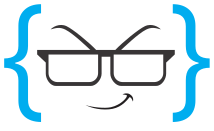
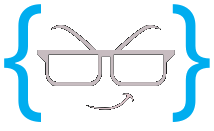
style: apply Prettier formatting

Changed region(s): [[0.1682, 0.1832, 0.8131, 0.6718], [0.3925, 0.7023, 0.6449, 0.855], [0.2243, 0.2137, 0.2523, 0.2443]]

diff --git a/frontend/src/components/ui/TaskListPanel.jsx b/frontend/src/components/ui/TaskListPanel.jsx
@@ -99,140 +99,120 @@ export default function TaskListPanel({
       </div>
 
       <div className="flex flex-col min-h-0 flex-1 mt-2 overflow-hidden">
-          {isMediator && (
-            <div className="flex gap-1.5 shrink-0">
-              <input
-                type="text"
-                value={newTaskName}
-                onChange={(e) => setNewTaskName(e.target.value)}
-                onKeyDown={(e) => e.key === 'Enter' && handleAdd()}
-                placeholder="Add task..."
-                className="flex-1 px-2 py-1 rounded-lg bg-white/5 border border-white/10
+        {isMediator && (
+          <div className="flex gap-1.5 shrink-0">
+            <input
+              type="text"
+              value={newTaskName}
+              onChange={(e) => setNewTaskName(e.target.value)}
+              onKeyDown={(e) => e.key === 'Enter' && handleAdd()}
+              placeholder="Add task..."
+              className="flex-1 px-2 py-1 rounded-lg bg-white/5 border border-white/10
                            text-white placeholder-slate-500 text-xs
                            focus:outline-none focus:ring-1 focus:ring-poker-500"
+            />
+            {groups.length > 0 && (
+              <Select
+                value={newTaskGroup}
+                placeholder="All groups"
+                compact
+                options={[
+                  { value: '', label: 'All groups' },
+                  ...groups.map((g) => ({ value: g.id, label: g.name })),
+                ]}
+                onChange={setNewTaskGroup}
+                className="w-28"
               />
-              {groups.length > 0 && (
-                <Select
-                  value={newTaskGroup}
-                  placeholder="All groups"
-                  compact
-                  options={[
-                    { value: '', label: 'All groups' },
-                    ...groups.map((g) => ({ value: g.id, label: g.name })),
-                  ]}
-                  onChange={setNewTaskGroup}
-                  className="w-28"
-                />
-              )}
-              <button onClick={handleAdd} className="glass-button text-xs px-2 py-1 rounded-md">
-                Add
-              </button>
-            </div>
-          )}
+            )}
+            <button onClick={handleAdd} className="glass-button text-xs px-2 py-1 rounded-md">
+              Add
+            </button>
+          </div>
+        )}
 
-          {sortedTasks.length > 0 && (
-            <div className="space-y-0.5 overflow-y-auto flex-1 min-h-0 mt-2 scrollbar-custom">
-              {sortedTasks.map((task, index) => {
-                const isCurrent = task.name === currentTaskName;
-                const isEditing = editingId === task.id;
-                const taskGroup = groups.find((g) => g.id === task.group_id);
-                const isInitial = task.sort_order === 0;
+        {sortedTasks.length > 0 && (
+          <div className="space-y-0.5 overflow-y-auto flex-1 min-h-0 mt-2 scrollbar-custom">
+            {sortedTasks.map((task, index) => {
+              const isCurrent = task.name === currentTaskName;
+              const isEditing = editingId === task.id;
+              const taskGroup = groups.find((g) => g.id === task.group_id);
+              const isInitial = task.sort_order === 0;
 
-                return (
-                  <div
-                    key={task.id}
-                    draggable={isMediator}
-                    onDragStart={() => handleDragStart(index)}
-                    onDragOver={(e) => {
-                      e.preventDefault();
-                      handleDragOver(index);
-                    }}
-                    onDrop={handleDrop}
-                    className={`flex items-center gap-1.5 px-2 py-1.5 rounded-lg text-xs transition-all
+              return (
+                <div
+                  key={task.id}
+                  draggable={isMediator}
+                  onDragStart={() => handleDragStart(index)}
+                  onDragOver={(e) => {
+                    e.preventDefault();
+                    handleDragOver(index);
+                  }}
+                  onDrop={handleDrop}
+                  className={`flex items-center gap-1.5 px-2 py-1.5 rounded-lg text-xs transition-all
                       ${isCurrent ? 'bg-transparent border border-poker-500/40' : isInitial ? 'bg-white/[0.07] border border-white/10' : 'bg-white/5 border border-white/5'}
                       ${isMediator ? 'cursor-grab active:cursor-grabbing' : ''}`}
-                  >
-                    <span className="text-slate-600 text-[10px] w-3 shrink-0">{index + 1}.</span>
+                >
+                  <span className="text-slate-600 text-[10px] w-3 shrink-0">{index + 1}.</span>
 
-                    {isEditing ? (
-                      <input
-                        type="text"
-                        value={editName}
-                        onChange={(e) => setEditName(e.target.value)}
-                        onBlur={() => handleSaveEdit(task.id)}
-                        onKeyDown={(e) => e.key === 'Enter' && handleSaveEdit(task.id)}
-                        className="flex-1 px-1.5 py-0.5 rounded bg-white/10 text-white text-xs
+                  {isEditing ? (
+                    <input
+                      type="text"
+                      value={editName}
+                      onChange={(e) => setEditName(e.target.value)}
+                      onBlur={() => handleSaveEdit(task.id)}
+                      onKeyDown={(e) => e.key === 'Enter' && handleSaveEdit(task.id)}
+                      className="flex-1 px-1.5 py-0.5 rounded bg-white/10 text-white text-xs
                                    focus:outline-none focus:ring-1 focus:ring-poker-500"
-                        autoFocus
-                      />
-                    ) : (
-                      <span
-                        className={`flex-1 truncate ${isCurrent ? 'text-white font-medium' : 'text-slate-300'}`}
-                        onDoubleClick={() => isMediator && handleStartEdit(task)}
-                      >
-                        {task.name}
-                      </span>
-                    )}
+                      autoFocus
+                    />
+                  ) : (
+                    <span
+                      className={`flex-1 truncate ${isCurrent ? 'text-white font-medium' : 'text-slate-300'}`}
+                      onDoubleClick={() => isMediator && handleStartEdit(task)}
+                    >
+                      {task.name}
+                    </span>
+                  )}
 
-                    {isInitial && !isCurrent && (
-                      <span className="text-[9px] px-1 py-0.5 rounded-full bg-white/10 text-slate-500 shrink-0">
-                        Inicial
-                      </span>
-                    )}
+                  {isInitial && !isCurrent && (
+                    <span className="text-[9px] px-1 py-0.5 rounded-full bg-white/10 text-slate-500 shrink-0">
+                      Inicial
+                    </span>
+                  )}
 
-                    {taskGroup && (
-                      <span className="text-[9px] px-1 py-0.5 rounded-full bg-white/10 text-slate-400 shrink-0">
-                        {taskGroup.name}
-                      </span>
-                    )}
+                  {taskGroup && (
+                    <span className="text-[9px] px-1 py-0.5 rounded-full bg-white/10 text-slate-400 shrink-0">
+                      {taskGroup.name}
+                    </span>
+                  )}
 
-                    {task.final_score && (
-                      <span className="text-[10px] font-bold text-emerald-400 shrink-0">
-                        {task.final_score}
-                      </span>
-                    )}
+                  {task.final_score && (
+                    <span className="text-[10px] font-bold text-emerald-400 shrink-0">
+                      {task.final_score}
+                    </span>
+                  )}
 
-                    {isCurrent && (
-                      <span className="text-[9px] text-poker-400 font-medium shrink-0">◉</span>
-                    )}
+                  {isCurrent && (
+                    <span className="text-[9px] text-poker-400 font-medium shrink-0">◉</span>
+                  )}
 
-                    {!isCurrent && !task.final_score && onSelectTask && (
-                      <button
-                        onClick={() => onSelectTask(task.name)}
-                        className="text-[9px] px-1.5 py-0.5 rounded bg-poker-500/20 text-poker-300 hover:bg-poker-500/30 shrink-0 transition-colors"
-                        title="Vote on this task"
-                      >
-                        Vote
-                      </button>
-                    )}
+                  {!isCurrent && !task.final_score && onSelectTask && (
+                    <button
+                      onClick={() => onSelectTask(task.name)}
+                      className="text-[9px] px-1.5 py-0.5 rounded bg-poker-500/20 text-poker-300 hover:bg-poker-500/30 shrink-0 transition-colors"
+                      title="Vote on this task"
+                    >
+                      Vote
+                    </button>
+                  )}
 
-                    {isMediator && (
-                      <div className="flex gap-0.5 shrink-0">
-                        {!isEditing && (
-                          <button
-                            onClick={() => handleStartEdit(task)}
-                            className="p-0.5 rounded hover:bg-white/10 text-slate-500 hover:text-white transition-colors"
-                            title="Edit name"
-                          >
-                            <svg
-                              className="w-2.5 h-2.5"
-                              fill="none"
-                              viewBox="0 0 24 24"
-                              stroke="currentColor"
-                            >
-                              <path
-                                strokeLinecap="round"
-                                strokeLinejoin="round"
-                                strokeWidth={2}
-                                d="M11 5H6a2 2 0 00-2 2v11a2 2 0 002 2h11a2 2 0 002-2v-5m-1.414-9.414a2 2 0 112.828 2.828L11.828 15H9v-2.828l8.586-8.586z"
-                              />
-                            </svg>
-                          </button>
-                        )}
+                  {isMediator && (
+                    <div className="flex gap-0.5 shrink-0">
+                      {!isEditing && (
                         <button
-                          onClick={() => setDeleteConfirm(task)}
-                          className="p-0.5 rounded hover:bg-red-500/20 text-slate-500 hover:text-red-400 transition-colors"
-                          title="Delete task"
+                          onClick={() => handleStartEdit(task)}
+                          className="p-0.5 rounded hover:bg-white/10 text-slate-500 hover:text-white transition-colors"
+                          title="Edit name"
                         >
                           <svg
                             className="w-2.5 h-2.5"
@@ -244,24 +224,44 @@ export default function TaskListPanel({
                               strokeLinecap="round"
                               strokeLinejoin="round"
                               strokeWidth={2}
-                              d="M6 18L18 6M6 6l12 12"
+                              d="M11 5H6a2 2 0 00-2 2v11a2 2 0 002 2h11a2 2 0 002-2v-5m-1.414-9.414a2 2 0 112.828 2.828L11.828 15H9v-2.828l8.586-8.586z"
                             />
                           </svg>
                         </button>
-                      </div>
-                    )}
-                  </div>
-                );
-              })}
-            </div>
-          )}
+                      )}
+                      <button
+                        onClick={() => setDeleteConfirm(task)}
+                        className="p-0.5 rounded hover:bg-red-500/20 text-slate-500 hover:text-red-400 transition-colors"
+                        title="Delete task"
+                      >
+                        <svg
+                          className="w-2.5 h-2.5"
+                          fill="none"
+                          viewBox="0 0 24 24"
+                          stroke="currentColor"
+                        >
+                          <path
+                            strokeLinecap="round"
+                            strokeLinejoin="round"
+                            strokeWidth={2}
+                            d="M6 18L18 6M6 6l12 12"
+                          />
+                        </svg>
+                      </button>
+                    </div>
+                  )}
+                </div>
+              );
+            })}
+          </div>
+        )}
 
-          {tasks.length === 0 && isMediator && (
-            <p className="text-[10px] text-slate-500 italic mt-2">
-              No tasks yet. Add tasks to plan your sprint.
-            </p>
-          )}
-        </div>
+        {tasks.length === 0 && isMediator && (
+          <p className="text-[10px] text-slate-500 italic mt-2">
+            No tasks yet. Add tasks to plan your sprint.
+          </p>
+        )}
+      </div>
 
       {deleteConfirm && (
         <ConfirmModal

diff --git a/frontend/src/components/ui/RoomInfo.jsx b/frontend/src/components/ui/RoomInfo.jsx
@@ -56,8 +56,17 @@ export default function RoomInfo({ onLeave, tasks, groups }) {
   return (
     <div className="glass-panel p-4 flex items-center justify-between">
       <div className="flex items-center gap-4">
-        <a href="https://agenteresolve.com.br" target="_blank" rel="noopener noreferrer">
-          <img src="/icon_agenteresolve.png" alt="Agente Resolve" className="h-8 rounded-lg hover:opacity-80 transition-opacity" />
+        <a
+          href="https://www.agenteresolve.com.br"
+          target="_blank"
+          rel="noopener noreferrer"
+          className="m-2"
+        >
+          <img
+            src="/icon_agenteresolve.png"
+            alt="Agente Resolve"
+            className="h-8 rounded-lg hover:opacity-80 transition-opacity"
+          />
         </a>
         <div className="flex items-center gap-2">
           <div>

diff --git a/frontend/src/App.jsx b/frontend/src/App.jsx
@@ -19,11 +19,7 @@ function HomeScreen({ onNavigate }) {
   return (
     <div className="min-h-screen flex items-center justify-center p-4">
       <div className="glass-panel p-8 w-full max-w-md text-center space-y-6">
-        <img
-          src="/logo_agenteresolve.png"
-          alt="Planning Poker"
-          className="h-16 mx-auto"
-        />
+        <img src="/logo_agenteresolve.png" alt="Planning Poker" className="h-16 mx-auto" />
         <h1 className="text-4xl font-bold text-glow">Planning Poker</h1>
         <p className="text-slate-400">Real-time sprint planning with your team</p>
         <div className="space-y-3">

diff --git a/frontend/src/utils/exportPdf.js b/frontend/src/utils/exportPdf.js
@@ -33,11 +33,7 @@ export function exportPdf({ roomCode, userName, tasks, groups }) {
 
   const rows = scored.map((t, i) => {
     const group = groups.find((g) => g.id === t.group_id);
-    return [
-      String(i + 1),
-      group ? `${t.name} (${group.name})` : t.name,
-      t.final_score || '—',
-    ];
+    return [String(i + 1), group ? `${t.name} (${group.name})` : t.name, t.final_score || '—'];
   });
 
   doc.autoTable({